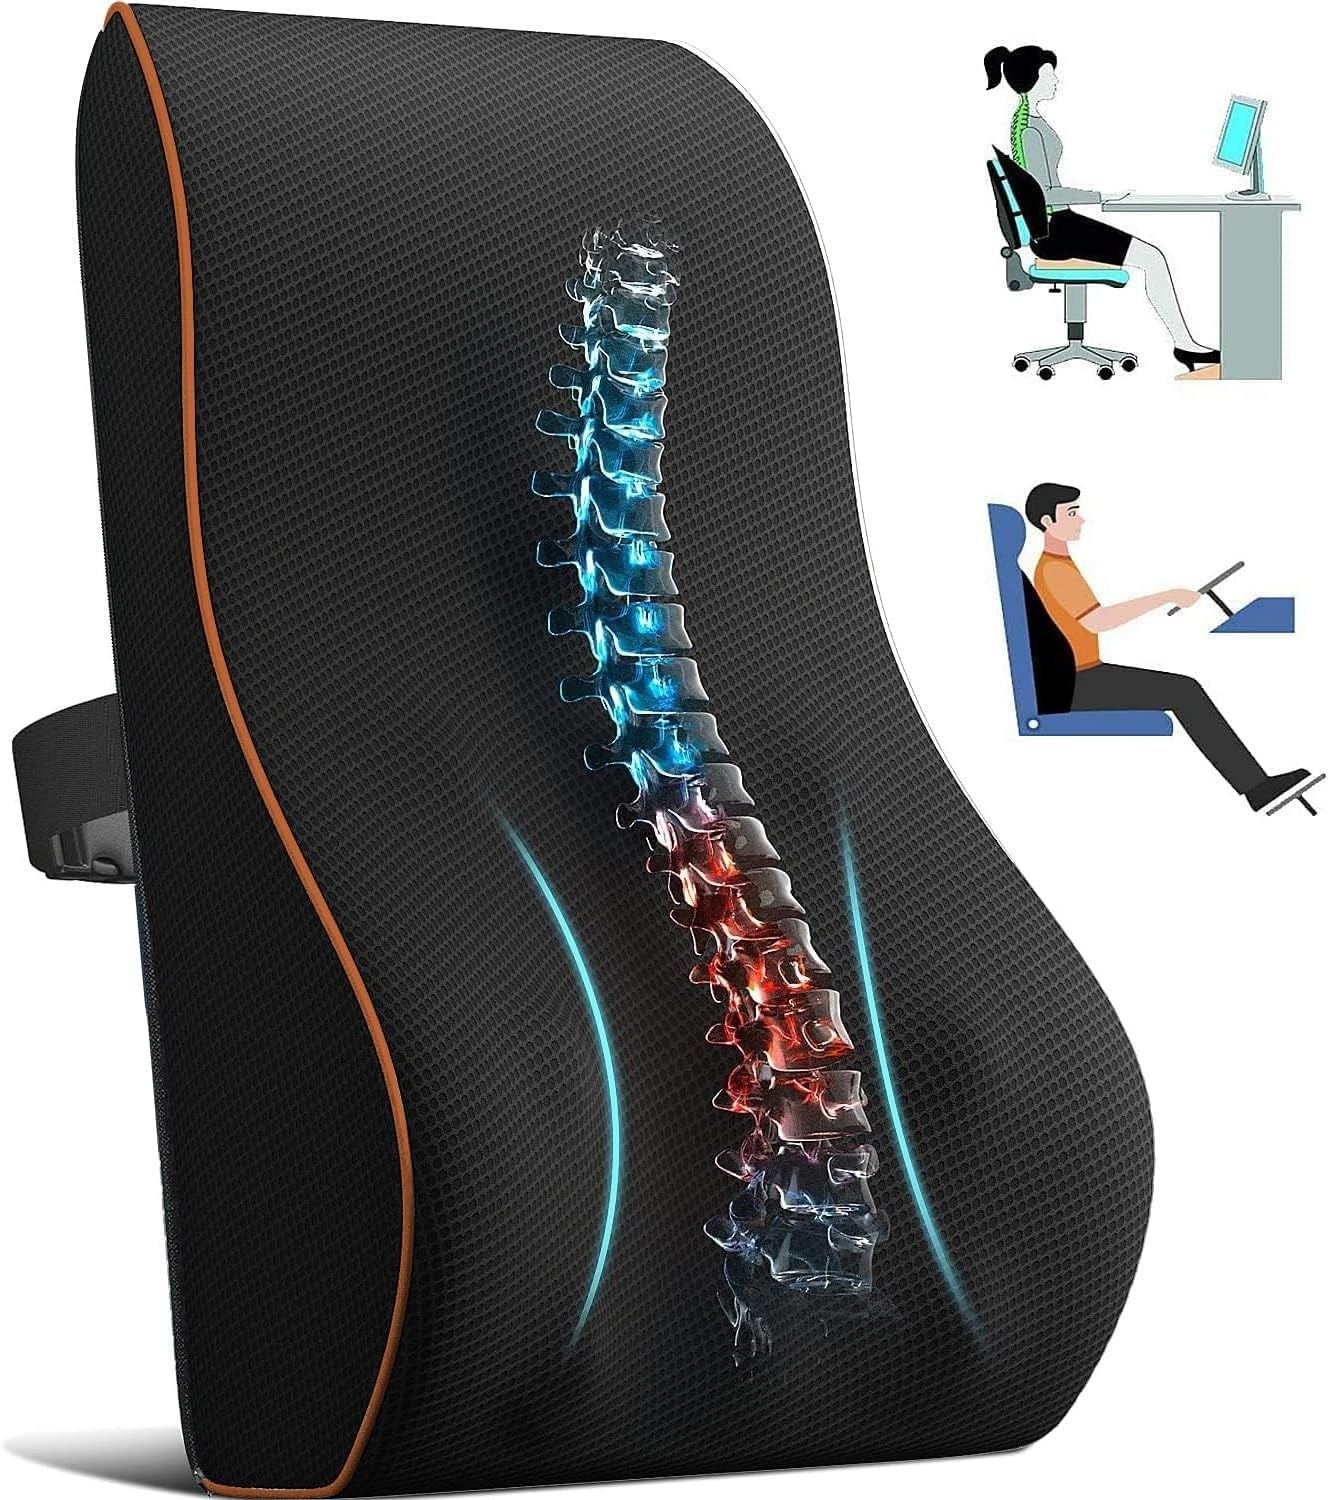
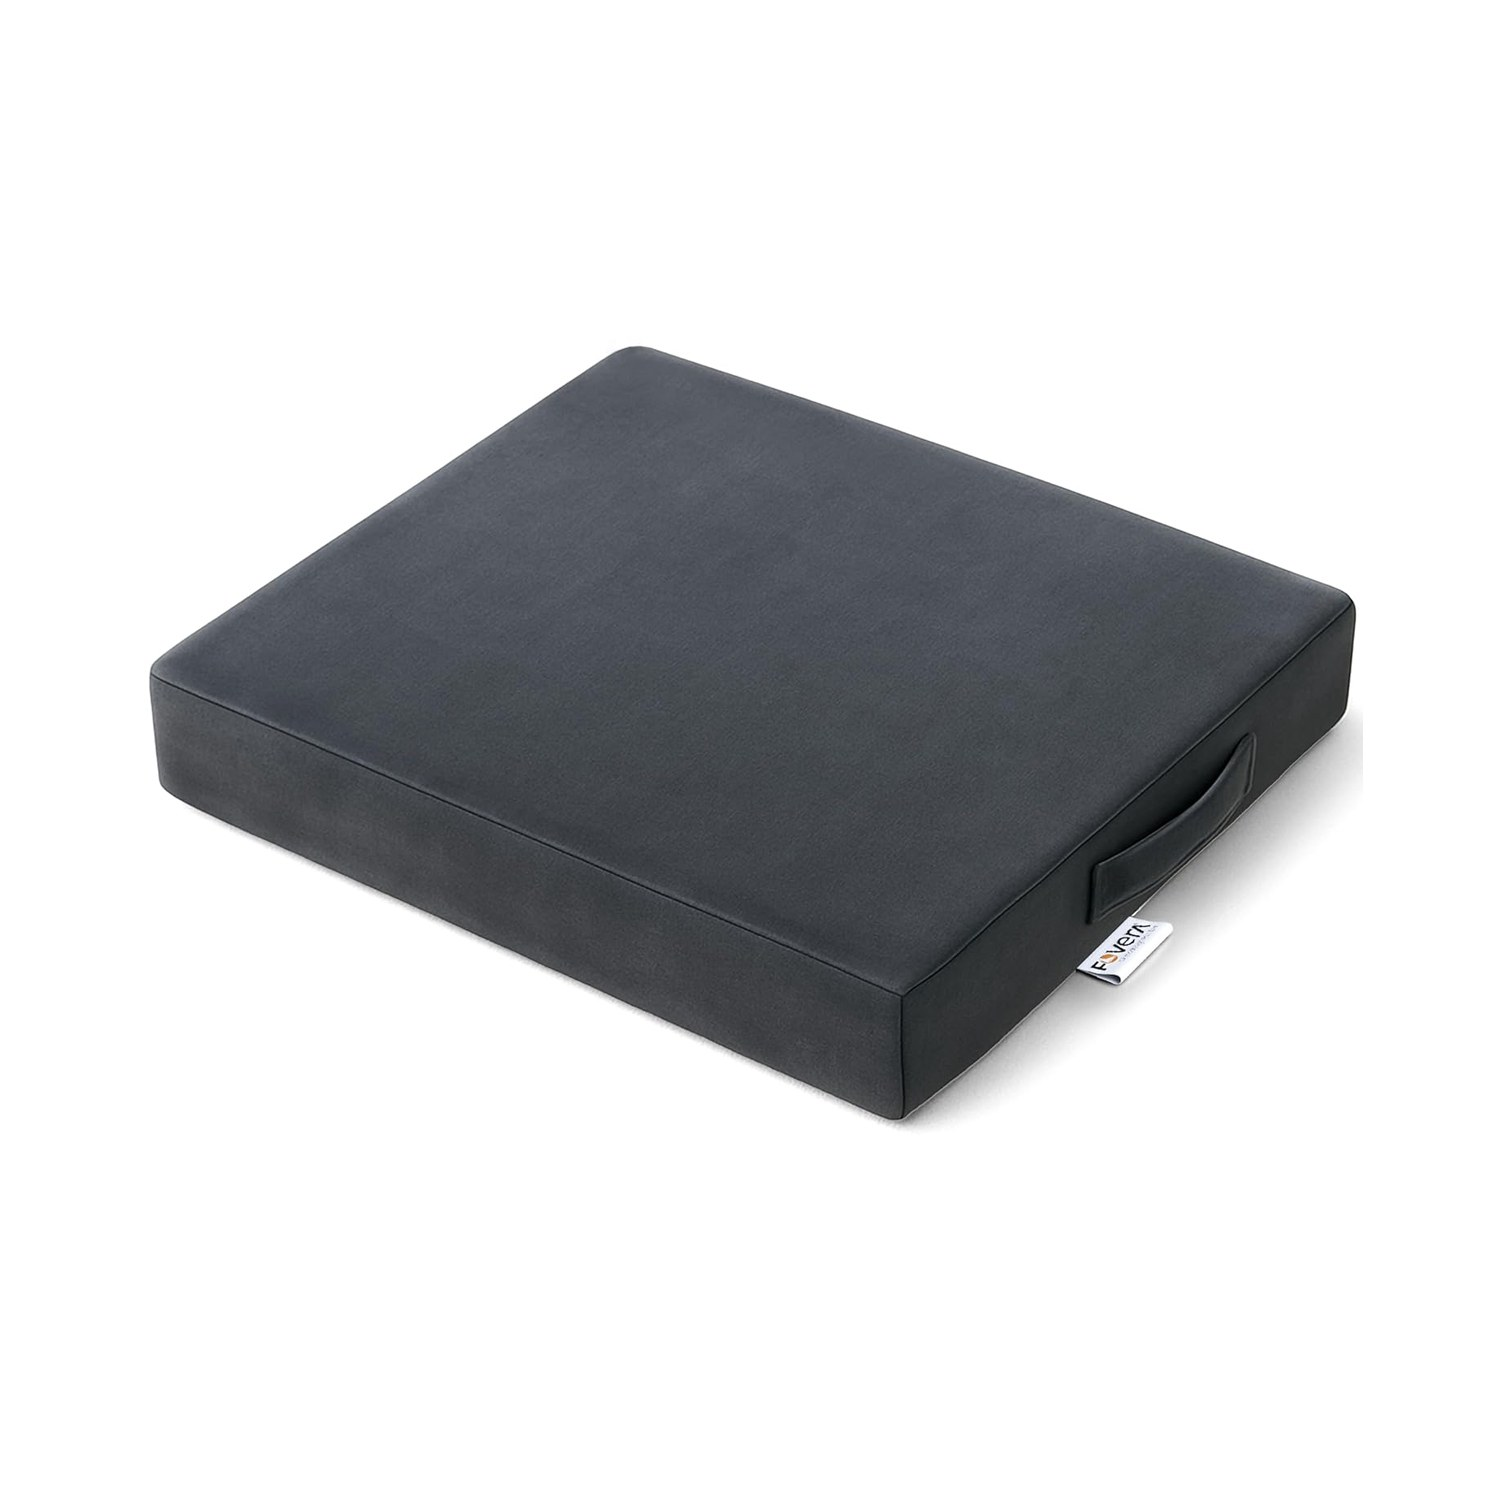
feat: tanda 1 - 24 productos nuevos en la tienda con foto real y SEO, boton Ver mas en el catalogo

diff --git a/src/lib/products.ts b/src/lib/products.ts
@@ -99,6 +99,32 @@ const RAW_PRODUCTS: Product[] = [
   { id: "gafas-y2k", name: "Gafas Y2K Futuristas", category: "accesorios", price: 17.99, tagline: "Energía 2000 para tu próximo fit.", badge: "TRENDING", hue: 255, rating: 4.4, proof: "Tendencia 2026" },
   { id: "rinonera-cyber", name: "Riñonera Crossbody Cyber", category: "accesorios", price: 21.99, tagline: "Manos libres con actitud. Reflectante de noche.", badge: "NUEVO", hue: 198, rating: 4.5, proof: "Recién llegado" },
   { id: "beanie-aesthetic", name: "Gorro Beanie Aesthetic", category: "accesorios", price: 14.99, tagline: "El gorro que combina con absolutamente todo.", hue: 275, rating: 4.6, proof: "Favorito del mes" },
+
+  // — Catálogo ampliado · Tanda 1 (Alibaba) —
+  { id: "soporte-monitor-cajon-hub", name: "Soporte Monitor con Cajón y Hub USB", category: "tech", price: 34.99, badge: "VIRAL", hue: 210, rating: 4.7, proof: "Viral en TikTok", tagline: "Eleva tu pantalla y ordena el caos de cables en un solo gesto.", seo: "Elevador de monitor con hub USB y cajón organizador para escritorio gaming aesthetic: ordena cables y eleva la pantalla. Ideal para setup minimalista, estudio y streaming." },
+  { id: "alfombrilla-xxl-escritorio-pastel", name: "Alfombrilla XXL Escritorio Pastel", category: "tech", price: 17.99, badge: "TRENDING", hue: 300, rating: 4.6, proof: "Tendencia 2026", tagline: "El lienzo pastel que convierte tu mesa en un setup de revista.", seo: "Alfombrilla de escritorio XXL gaming en tonos pastel: base aesthetic para teclado y ratón, antideslizante y lavable. Personalizable con tu marca." },
+  { id: "soporte-auriculares-rgb-hub", name: "Soporte Auriculares RGB con Hub USB", category: "tech", price: 27.99, hue: 195, rating: 4.5, proof: "Recién llegado", tagline: "Cuelga tus cascos con glow RGB y libera tu escritorio.", seo: "Soporte para cascos gaming con luz RGB y hub USB: libera espacio y da glow a tu setup. Perfecto para gamers, streamers y desk aesthetic." },
+  { id: "reposamunecas-teclado-raton-gel", name: "Reposamuñecas Teclado/Ratón Gel Pastel", category: "tech", price: 16.99, hue: 320, rating: 4.6, proof: "El más buscado", tagline: "Comodidad pastel para horas de juego sin castigar tus muñecas.", seo: "Set reposamuñecas de gel para teclado y ratón en colores pastel: comodidad ergonómica para largas sesiones de gaming, estudio o teletrabajo." },
+  { id: "bandeja-bajo-escritorio-cables", name: "Bandeja Bajo-Escritorio para Cables", category: "tech", price: 18.99, hue: 220, rating: 4.5, proof: "Lo más guardado", tagline: "Esconde regletas y cables: el antes/después que para el scroll.", seo: "Bandeja de gestión de cables bajo escritorio: oculta regletas y cables para un setup limpio y aesthetic. Montaje sin taladrar." },
+  { id: "cojin-lumbar-reposapies", name: "Cojín Lumbar + Reposapiés Ergonómico", category: "hogar", price: 32.99, hue: 200, rating: 4.6, proof: "Favorito del mes", tagline: "Tu glow up de postura para gaming, estudio y home office.", seo: "Kit cojín lumbar y reposapiés ergonómico para silla de escritorio: mejora la postura en gaming, estudio y home office. Espuma viscoelástica y funda lavable." },
+  { id: "lampara-escritorio-plegable", name: "Lámpara de Escritorio Plegable 3 en 1", category: "iluminacion", price: 36.99, badge: "NUEVO", hue: 215, rating: 4.7, proof: "Recién llegado", tagline: "Luz de estudio, reloj y carga inalámbrica: 3 en 1 que cabe en cualquier mesa.", seo: "Flexo LED plegable con reloj, carga inalámbrica y regulador táctil: luz de estudio aesthetic 3 en 1 para tu desk setup. Multifunción y ahorro de espacio." },
+  { id: "kit-luz-ambiental-coche-rgb", name: "Kit Luz Ambiental Coche RGB con App", category: "iluminacion", price: 32.99, badge: "VIRAL", hue: 280, rating: 4.6, proof: "Viral en TikTok", tagline: "Convierte tu coche en modo aesthetic que cambia al ritmo de la música.", seo: "Kit de luz ambiental para coche RGB con control por app y música: transforma el interior en modo aesthetic con fibra óptica. Instalación adhesiva sin herramientas." },
+  { id: "techo-estrellado-coche-led", name: "Techo Estrellado Coche LED", category: "iluminacion", price: 26.99, badge: "TRENDING", hue: 248, rating: 4.7, proof: "Tendencia 2026", tagline: "Un cielo de estrellas en tu techo para los viajes nocturnos.", seo: "Luz de techo estrellado para coche LED USB: convierte el techo en un cielo de estrellas para viajes nocturnos aesthetic. Efecto galaxia portátil y fácil de pegar." },
+  { id: "tapacubos-led-flotantes", name: "Tapacubos LED Flotantes (set 4)", category: "accesorios", price: 39.99, badge: "EDICIÓN LIMITADA", hue: 255, rating: 4.5, proof: "Edición limitada", tagline: "El logo que nunca gira: magia visual para tus llantas.", seo: "Set de 4 tapacubos LED flotantes que se mantienen rectos en movimiento: dan un look premium y aesthetic a las llantas. Carga magnética e impermeables." },
+  { id: "difusor-aromas-coche", name: "Difusor de Aromas Coche Aesthetic", category: "hogar", price: 12.99, hue: 25, rating: 4.5, proof: "El más buscado", tagline: "El detalle mono que perfuma tu coche con estilo.", seo: "Difusor de aromas para coche con clip de rejilla y diseño aesthetic: ambienta tu coche con estilo y recargas tú el perfume. Detalle mono que combina con tu deco." },
+  { id: "set-accesorios-coche-aesthetic", name: "Set Accesorios Coche Aesthetic", category: "accesorios", price: 24.99, badge: "TRENDING", hue: 300, rating: 4.6, proof: "Tendencia 2026", tagline: "El girly car setup que arrasa en TikTok, en un solo pack.", seo: "Set de accesorios de coche aesthetic: fundas de cinturón, colgante y detalles cute para personalizar tu coche con vibe TikTok. Pack regalo con tu marca." },
+  { id: "set-collar-bandana-lazo", name: "Set Collar + Bandana + Lazo a Juego", category: "accesorios", price: 18.99, hue: 290, rating: 4.6, proof: "Favorito del mes", tagline: "Looks coordinados pet & me para las fotos más adorables.", seo: "Set collar, bandana y lazo a juego para perro o gato en tonos pastel: looks coordinados pet & me para fotos aesthetic. Ajustable, suave y resistente." },
+  { id: "cama-sofa-mini-mascota", name: "Cama Sofá Mini para Mascota", category: "hogar", price: 49.99, badge: "TOP VENTAS", hue: 322, rating: 4.8, proof: "Top de la semana", tagline: "El mini sofá que parece mueble humano y enamora a tu mascota.", seo: "Cama-sofá mini para gato o perro con estilo de mueble real: deco de habitación que es también cama cómoda para tu mascota. Tendencia pet furniture aesthetic." },
+  { id: "alfombrilla-refrescante-gel-mascotas", name: "Alfombrilla Refrescante de Gel para Mascotas", category: "hogar", price: 24.99, hue: 188, rating: 4.5, proof: "Recién llegado", tagline: "Alivia el calor del verano sin electricidad ni agua.", seo: "Alfombrilla refrescante de gel para perros y gatos: alivia el calor del verano sin electricidad ni agua, se autorrecarga. Lavable y antideslizante." },
+  { id: "comedero-antiatragantamiento", name: "Comedero Antiatragantamiento Slow Feeder", category: "hogar", price: 15.99, hue: 152, rating: 4.6, proof: "Lo más guardado", tagline: "Ralentiza la comida y cuida la digestión de tu peludo.", seo: "Comedero antiatragantamiento (slow feeder) para perros y gatos: ralentiza la comida, mejora la digestión y reduce el estrés. Diseño laberinto y colores pastel." },
+  { id: "cepillo-deshedding", name: "Cepillo Quita-Pelo Deshedding Pro", category: "hogar", price: 16.99, badge: "VIRAL", hue: 205, rating: 4.7, proof: "Viral en TikTok", tagline: "Adiós a la muda: resultados satisfying al instante.", seo: "Cepillo deshedding profesional para perros y gatos: elimina el pelo muerto y reduce la muda con un botón de auto-limpieza. Resultados visibles al instante." },
+  { id: "botella-agua-portatil-mascota", name: "Botella de Agua Portátil 2 en 1 para Paseo", category: "accesorios", price: 18.99, hue: 195, rating: 4.6, proof: "El más buscado", tagline: "Bebedero de paseo sin goteo: imprescindible para salidas.", seo: "Botella de agua portátil 2 en 1 para perros: bebedero de paseo con dispensador de un toque, sin goteo. Imprescindible aesthetic para salidas y viajes." },
+  { id: "fuente-agua-silenciosa-gatos", name: "Fuente de Agua Silenciosa para Gatos", category: "hogar", price: 34.99, badge: "NUEVO", hue: 190, rating: 4.6, proof: "Recién llegado", tagline: "Agua fresca en circulación que anima a tu gato a beber más.", seo: "Fuente de agua silenciosa para gatos con luz LED y filtro: agua fresca en circulación que anima a tu gato a beber más. Diseño minimalista aesthetic." },
+  { id: "spray-dispensador-aceite", name: "Spray Dispensador de Aceite 2 en 1", category: "hogar", price: 15.99, badge: "VIRAL", hue: 96, rating: 4.7, proof: "Viral en TikTok", tagline: "El gadget #1 de la freidora de aire: rocía el aceite justo.", seo: "Spray dispensador de aceite 2 en 1 de cristal: rocía o vierte el aceite justo para freidora de aire, ensaladas y plancha. Cocina más sana y aesthetic." },
+  { id: "cubo-basura-sensor", name: "Cubo de Basura Cocina con Sensor", category: "hogar", price: 59.99, hue: 215, rating: 4.6, proof: "Favorito del mes", tagline: "La tapa que se abre sola: tu cocina en modo futurista.", seo: "Cubo de basura inteligente con sensor sin contacto para cocina: se abre solo al acercar la mano, higiénico y aesthetic. Acero mate y cierre suave." },
+  { id: "hervidor-huevos-electrico", name: "Hervidor Rápido de Huevos Eléctrico", category: "hogar", price: 27.99, hue: 45, rating: 4.5, proof: "El más buscado", tagline: "Huevos perfectos en minutos y apagado automático.", seo: "Hervidor rápido de huevos eléctrico para 7 unidades: huevos perfectos (duros, mollet, pochados) en minutos con apagado automático. Compacto y aesthetic." },
+  { id: "cortador-uvas-tomates", name: "Cortador de Uvas y Tomates Cherry", category: "hogar", price: 11.99, hue: 340, rating: 4.5, proof: "Lo más guardado", tagline: "Parte 20 uvas de una pasada: snack prep satisfying y seguro.", seo: "Cortador rápido de uvas y tomates cherry: parte en mitades en un gesto, ideal para meriendas infantiles y bowls aesthetic. Seguro y fácil de limpiar." },
+  { id: "maquina-helado-enrollado", name: "Máquina de Helado Enrollado Casero", category: "hogar", price: 64.99, badge: "EDICIÓN LIMITADA", hue: 320, rating: 4.6, proof: "Edición limitada", tagline: "Haz los ice cream rolls virales de street food en tu cocina.", seo: "Máquina de helado enrollado casero con placa fría: crea ice cream rolls como en los vídeos virales de street food. Postres aesthetic y diversión en familia." },
 ];
 
 // Cada producto usa su foto real en /productos/{id}.jpg y una descripción SEO.

diff --git a/src/components/sections/Catalog.tsx b/src/components/sections/Catalog.tsx
@@ -21,6 +21,7 @@ const CHIPS: { key: Filter; label: string }[] = [
 
 export function Catalog() {
   const [filter, setFilter] = useState<Filter>("all");
+  const [visible, setVisible] = useState(24);
 
   useEffect(() => {
     const onFilter = (e: Event) => {
@@ -31,7 +32,10 @@ export function Catalog() {
     return () => window.removeEventListener(FILTER_EVENT, onFilter);
   }, []);
 
+  useEffect(() => setVisible(24), [filter]);
+
   const items = productsByCategory(filter);
+  const shown = items.slice(0, visible);
 
   return (
     <section id="tienda" className="mx-auto max-w-[1400px] px-5 py-28 md:px-8">
@@ -84,11 +88,23 @@ export function Catalog() {
           transition={{ duration: 0.4, ease: [0.16, 1, 0.3, 1] }}
           className="grid grid-cols-2 gap-x-5 gap-y-10 md:grid-cols-3 lg:grid-cols-4"
         >
-          {items.map((p) => (
+          {shown.map((p) => (
             <ProductCard key={p.id} product={p} />
           ))}
         </motion.div>
       </AnimatePresence>
+
+      {items.length > visible && (
+        <div className="mt-12 flex justify-center">
+          <button
+            onClick={() => setVisible((v) => v + 24)}
+            data-cursor
+            className="btn-ghost"
+          >
+            Ver más productos ({items.length - visible})
+          </button>
+        </div>
+      )}
     </section>
   );
 }